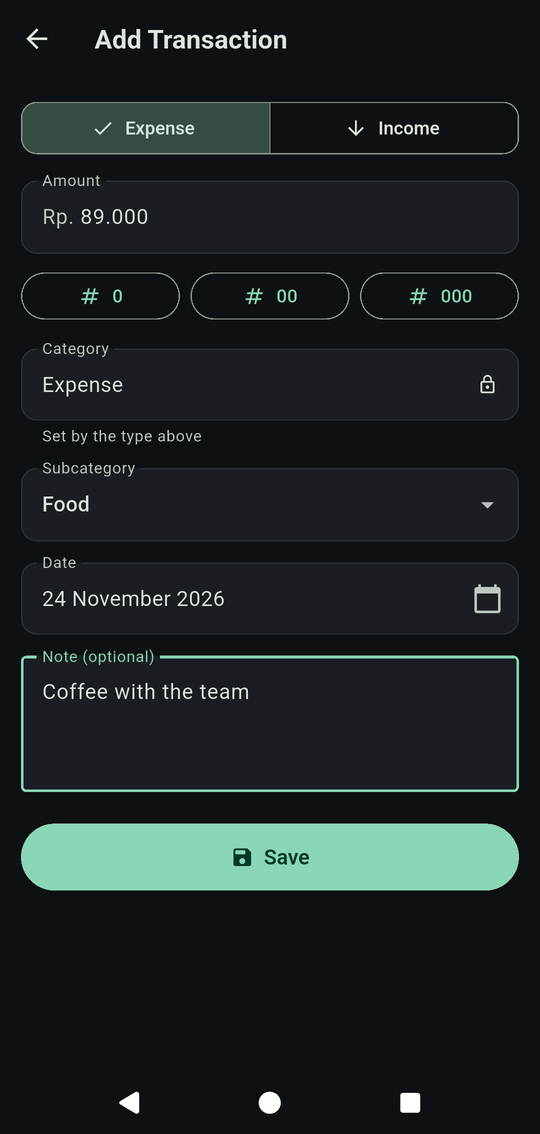
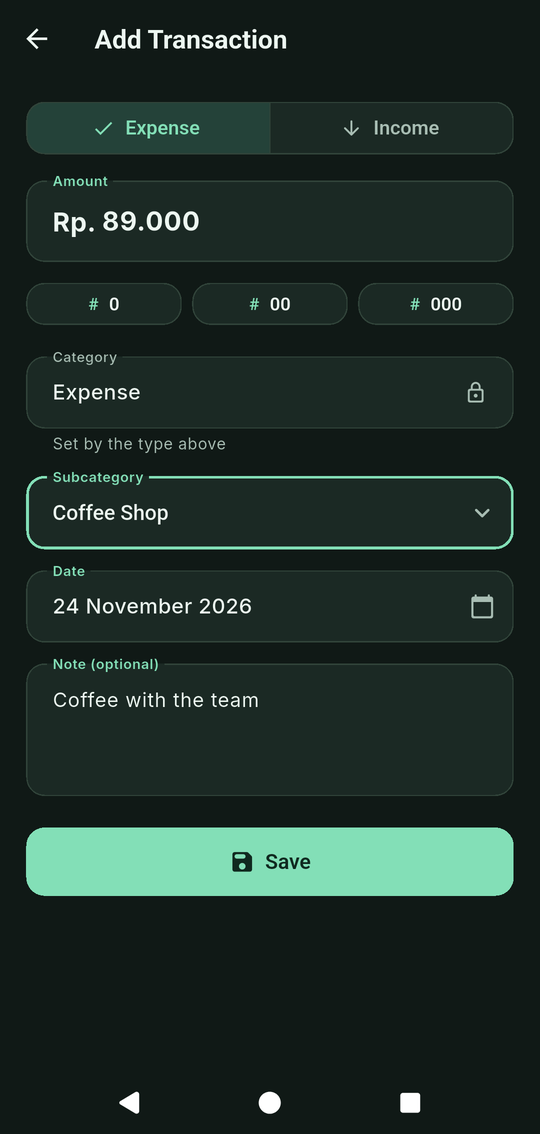
docs: refresh the screenshots for the redesigned app
Every picture in the README predated v1.10: an app bar with icon buttons, a
balance card with no income/expense split, and no bottom navigation. They are
recaptured from the running app in both themes, and `backup-dark.png` — a page
that is now Settings — is replaced by `settings-dark.png` and
`settings-light.png`. The recording of the add flow is re-shot too, so it ends
on a dashboard that exists.

Recapturing surfaced two faults worth fixing rather than photographing around:

The statistics pie chart was grey. `_categoryColor` only knew the category
names from before the redesign, so the subcategories the app now ships —
Coffee Shop, Fuel, Pocket Money — all fell through to the same default. They
have colours, and Coffee Shop shares Food's amber because it is one.

`tool/demo_main.dart` invented its own categories (Housing, Groceries,
Transport…). That produced a chart no install could show, and it was why every
slice was grey in the first place. It now seeds against the categories the app
creates, so the screenshots are of data the app can actually hold.

Screenshots are 540x1134, cropped above the status bar: no clock, no network
name, and the only transactions are the invented ones the tool writes.

diff --git a/tool/demo_main.dart b/tool/demo_main.dart
@@ -32,38 +32,43 @@ Future<void> main() async {
   await app.main();
 }
 
-/// Categories with the subcategory names that end up on the rows: the tile
-/// shows `subcategoryName ?? categoryName`, so a row is named by its subcategory
-/// while the statistics and the PDF break down by the category above it.
-const Map<String, (String, List<String>)> _catalogue =
-    <String, (String, List<String>)>{
-  'Housing': ('expense', <String>['Rent', 'Electricity']),
-  'Groceries': ('expense', <String>['Supermarket', 'Market']),
-  'Transport': ('expense', <String>['Fuel', 'Ride Hailing']),
-  'Dining': ('expense', <String>['Coffee', 'Restaurant']),
-  'Subscriptions': ('expense', <String>['Streaming', 'Music']),
-  'Health': ('expense', <String>['Pharmacy']),
-  'Salary': ('income', <String>['Monthly Salary']),
-  'Freelance': ('income', <String>['Side Project']),
-};
+/// The rows are named by their subcategory — the tile shows
+/// `subcategoryName ?? categoryName`, while the statistics and the PDF break down
+/// by the category above it — so this seeds against the categories the app itself
+/// creates, not a set of its own.
+///
+/// It used to invent `Housing`, `Groceries`, `Transport` and friends. That read
+/// fine in a screenshot, but it also meant the pie chart's colour table, which
+/// knows the shipped names, fell through to its grey default for every slice: the
+/// picture showed a chart no install could produce.
+const List<(String, String)> _daily = <(String, String)>[
+  ('Food', 'Lunch at the office'),
+  ('Food', 'Groceries for the week'),
+  ('Coffee Shop', 'Coffee with the team'),
+  ('Fuel', 'Filled the tank'),
+  ('Other Needs', 'Household bits'),
+  ('Data/Internet Package', 'Monthly data plan'),
+];
+
+/// The larger rows of a month: what a household actually spends in one go.
+const List<(String, String, double)> _monthly = <(String, String, double)>[
+  ('Other Needs', 'Rent', 3200000),
+  ('Data/Internet Package', 'Internet and data', 385000),
+  ('Other Needs', 'Electricity bill', 320000),
+  ('Coffee Shop', 'Coffee beans', 145000),
+];
 
 Future<void> _seed(AppDatabase db) async {
+  /// Subcategory name to its id, and to the category that owns it.
   final Map<String, int> subcategoryIds = <String, int>{};
-
-  /// The category a subcategory belongs to, which every row has to carry.
   final Map<String, int> categoryOfSub = <String, int>{};
 
-  for (final MapEntry<String, (String, List<String>)> entry
-      in _catalogue.entries) {
-    final int categoryId = await db.into(db.categories).insert(
-          CategoriesCompanion.insert(name: entry.key, type: entry.value.$1),
-        );
-
-    for (final String child in entry.value.$2) {
-      subcategoryIds[child] = await db.into(db.subcategories).insert(
-            SubcategoriesCompanion.insert(categoryId: categoryId, name: child),
-          );
-      categoryOfSub[child] = categoryId;
+  for (final String type in <String>['expense', 'income']) {
+    for (final Category category in await db.getCategories(type: type)) {
+      for (final Subcategory child in await db.getSubcategories(category.id)) {
+        subcategoryIds[child.name] = child.id;
+        categoryOfSub[child.name] = category.id;
+      }
     }
   }
 
@@ -97,54 +102,30 @@ Future<void> _seed(AppDatabase db) async {
         monthsBack == 0 && onDay > now.day ? now.day : onDay,
       );
 
-  /// Subcategory and note travel together. A note that contradicts the row it
-  /// sits under — "Coffee" over "Fuel" — is the one thing that would make the
-  /// data read as generated rather than lived.
-  const List<(String, String)> daily = <(String, String)>[
-    ('Supermarket', 'Weekly groceries'),
-    ('Market', 'Fresh produce'),
-    ('Fuel', 'Filled the tank'),
-    ('Ride Hailing', 'Ride to the office'),
-    ('Coffee', 'Coffee with the team'),
-    ('Restaurant', 'Dinner out'),
-    ('Pharmacy', 'Vitamins'),
-  ];
-
   for (int back = 2; back >= 0; back--) {
     await row(
-        subcategory: 'Monthly Salary',
+        subcategory: 'Salary',
         type: 'income',
         amount: 12500000,
         date: day(back, 25),
         note: 'Monthly salary');
-    await row(
-        subcategory: 'Rent',
+
+    // The same bills land on the same days every month, so the statistics page
+    // has a previous month to compare against instead of a flat line.
+    for (final (String subcategory, String note, double amount) entry
+        in _monthly) {
+      await row(
+        subcategory: entry.$1,
         type: 'expense',
-        amount: 3200000,
-        date: day(back, 2),
-        note: 'Rent');
-    await row(
-        subcategory: 'Electricity',
-        type: 'expense',
-        amount: 320000.0 + random.nextInt(90000),
-        date: day(back, 5),
-        note: 'Electricity bill');
-    await row(
-        subcategory: 'Streaming',
-        type: 'expense',
-        amount: 54000,
-        date: day(back, 7),
-        note: 'Streaming plan');
-    await row(
-        subcategory: 'Music',
-        type: 'expense',
-        amount: 54990,
-        date: day(back, 7),
-        note: 'Music plan');
+        amount: entry.$3,
+        date: day(back, 2 + _monthly.indexOf(entry) * 3),
+        note: entry.$2,
+      );
+    }
 
     if (back == 1) {
       await row(
-          subcategory: 'Side Project',
+          subcategory: 'Freelance',
           type: 'income',
           amount: 2750000,
           date: day(back, 18),
@@ -153,7 +134,7 @@ Future<void> _seed(AppDatabase db) async {
 
     for (int i = 0; i < 9; i++) {
       final (String subcategory, String note) =
-          daily[random.nextInt(daily.length)];
+          _daily[random.nextInt(_daily.length)];
       await row(
         subcategory: subcategory,
         type: 'expense',

diff --git a/lib/presentation/pages/statistics_page.dart b/lib/presentation/pages/statistics_page.dart
@@ -1063,11 +1063,14 @@ class _StatisticsPageState extends ConsumerState<StatisticsPage> {
   Color _categoryColor(String name) {
     switch (name.toLowerCase()) {
       case 'food':
+      case 'coffee shop':
         return const Color(0xFFF59E0B);
       case 'other needs':
         return const Color(0xFF3B82F6);
       case 'data/internet package':
         return const Color(0xFF8B5CF6);
+      case 'fuel':
+        return const Color(0xFF0EA5E9);
       case 'salary':
         return const Color(0xFF10B981);
       case 'freelance':
@@ -1075,6 +1078,7 @@ class _StatisticsPageState extends ConsumerState<StatisticsPage> {
       case 'investment':
         return const Color(0xFF6366F1);
       case 'allowance':
+      case 'pocket money':
         return const Color(0xFFEAB308);
       case 'bonus':
       case 'gift':

diff --git a/README.md b/README.md
@@ -11,18 +11,28 @@ this out in full.
 
 ## Screenshots
 
-Dark theme, on Android 16. The phone in these pictures is an emulator holding
-invented transactions — `tool/demo_main.dart` seeds them — so no screenshot
-carries anybody's real spending.
+Android 16, in both themes. The phone in these pictures is an emulator holding
+invented transactions — `tool/demo_main.dart` seeds them into the categories the
+app ships with, so no screenshot carries anybody's real spending.
 
-| Dashboard | Statistics | Add a transaction |
+**Dark theme**
+
+| Dashboard | Statistics | Settings |
 | --- | --- | --- |
-| <img src="assets/screenshots/dashboard-dark.png" width="240" alt="Dashboard, dark"> | <img src="assets/screenshots/statistics-dark.png" width="240" alt="Statistics, dark"> | <img src="assets/screenshots/add-transaction-empty-dark.png" width="240" alt="Add a transaction, empty"> |
-| <img src="assets/screenshots/dashboard-bottom-dark.png" width="240" alt="End of the dashboard list, dark"> | <img src="assets/screenshots/statistics-breakdown-dark.png" width="240" alt="Expense breakdown, dark"> | <img src="assets/screenshots/add-transaction-filled-dark.png" width="240" alt="Add a transaction, filled in"> |
-| <img src="assets/screenshots/dashboard-light.png" width="240" alt="Dashboard, light"> | <img src="assets/screenshots/dashboard-bottom-light.png" width="240" alt="End of the dashboard list, light"> | <img src="assets/screenshots/backup-dark.png" width="240" alt="Backup and PDF report"> |
+| <img src="assets/screenshots/dashboard-dark.png" width="240" alt="Dashboard, dark"> | <img src="assets/screenshots/statistics-dark.png" width="240" alt="Statistics, dark"> | <img src="assets/screenshots/settings-dark.png" width="240" alt="Settings, dark"> |
+| <img src="assets/screenshots/dashboard-bottom-dark.png" width="240" alt="End of the dashboard list, dark"> | <img src="assets/screenshots/statistics-breakdown-dark.png" width="240" alt="Expense breakdown, dark"> | <img src="assets/screenshots/add-transaction-empty-dark.png" width="240" alt="Add a transaction, empty"> |
+| <img src="assets/screenshots/add-transaction-filled-dark.png" width="240" alt="Add a transaction, filled in"> | | |
+
+**Light theme**
+
+| Dashboard | Statistics | Settings |
+| --- | --- | --- |
+| <img src="assets/screenshots/dashboard-light.png" width="240" alt="Dashboard, light"> | <img src="assets/screenshots/statistics-light.png" width="240" alt="Statistics, light"> | <img src="assets/screenshots/settings-light.png" width="240" alt="Settings, light"> |
+| <img src="assets/screenshots/dashboard-bottom-light.png" width="240" alt="End of the dashboard list, light"> | <img src="assets/screenshots/statistics-breakdown-light.png" width="240" alt="Expense breakdown, light"> | |
 
 Recording one transaction — the amount, the quick-append buttons, the
-subcategory, the note, and the dashboard it lands back on:
+subcategory, the note, and the dashboard it lands back on, where the new row
+is already at the top:
 
 <img src="assets/screenshots/add-transaction-dark.gif" width="240" alt="Adding a transaction, end to end">
 
